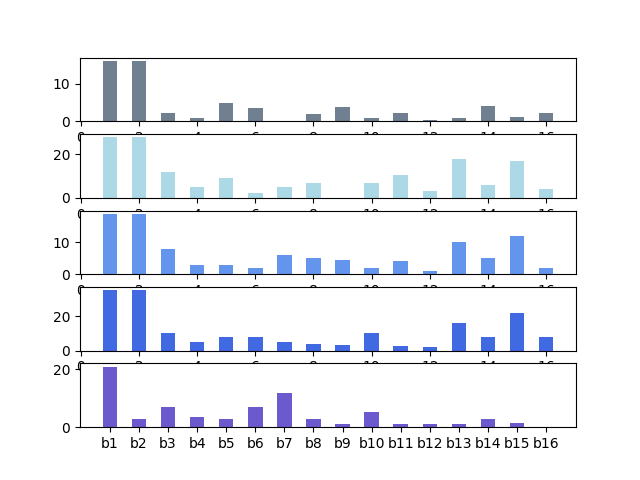
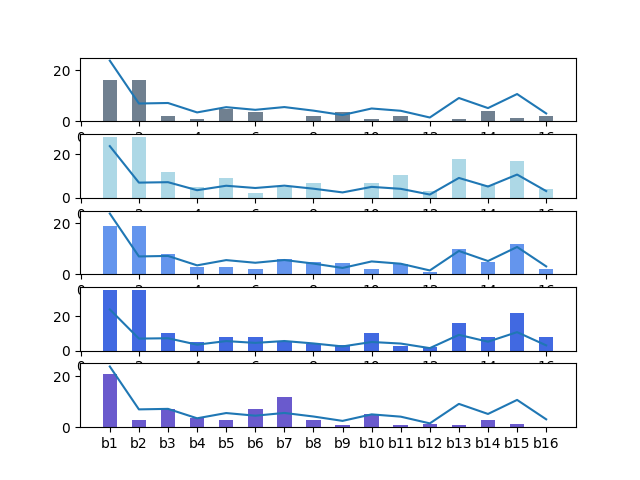
TM graph indi fix

diff --git a/TEAMatebot_Prof/test.py b/TEAMatebot_Prof/test.py
@@ -56,7 +56,7 @@ def print_graph(score, group_id):
     #save_name = group_id
     #plt.savefig('print_graph' + str(group_id))
 
-def print_graph_indi(score, group_id):
+def print_graph_indi(score, group_id, aver):
     avg = []
     for i in score :
         value = list(i.values())
@@ -104,11 +104,12 @@ def print_graph_indi(score, group_id):
     for idx in range(len(key_)):
         #name_g = list(i.keys())
         rects1 = ax[idx].bar(x, data[len(key_)-idx-1], width, color=c[idx])
+        ax[idx].plot(x, aver)
         plt.xticks(x_l, labels=label_name)
         #for idx, item in enumerate(data):
-    plt.show()
-    #save_name = str(group_id) + "_indi"
-    #plt.savefig('print_graph_' + save_name)
+    #plt.show()
+    save_name = str(group_id) + "_indi"
+    plt.savefig('print_graph_' + save_name)
 
 def result_print_graph(score, group_id):
     #result_score_df = self.print_score_df(group_id)
@@ -167,7 +168,8 @@ score = [{'user1' : 21.0, 'user2' : 35.0, 'user3' : 19.0, 'user4' : 28.0, 'user5
 {'user1' : 1.3, 'user2' : 22.0, 'user3' : 12.0, 'user4' : 17.0, 'user5' : 1.2},
 {'user1' : 0.0, 'user2' : 8.0, 'user3' : 1.9, 'user4' : 4.0, 'user5' : 2.2}]
 
+aver = [23.84,7.0,7.2,3.5, 5.56, 4.52, 5.6, 4.2, 2.48, 5.04, 4.14, 1.5, 9.16, 5.2, 10.72, 3.1]
 gra = grade(score, analysis, contri, outcome, -1233)
 result_print_graph(gra, -1233)
 print_graph(score, -1333)
-print_graph_indi(score, -1333)
+print_graph_indi(score, -1333, aver)
